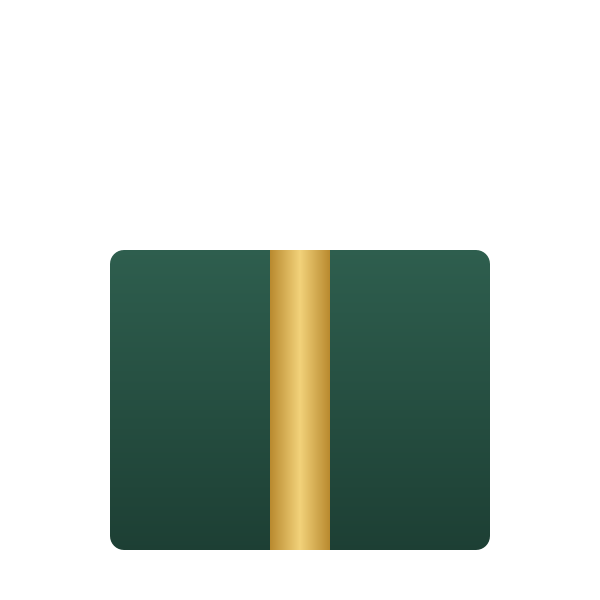
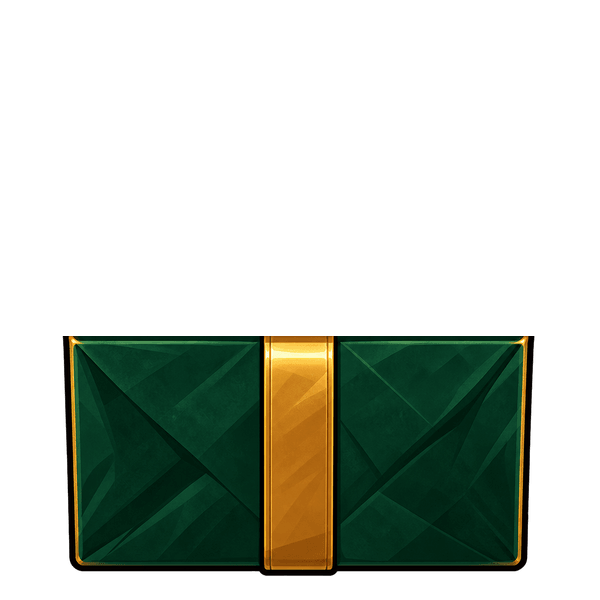
Kortpresenten: Viktors riktiga paket i stället för den tillfälliga bilden
Klippt vid skarven till lock och låda på samma sätt som skattkistan.

diff --git a/src/components/trophies/PresentBox.tsx b/src/components/trophies/PresentBox.tsx
@@ -1,17 +1,14 @@
 /**
- * Paketet i kortpresenten — samma uppbyggnad som skattkistan (TreasureChest): en bild klippt vid
- * skarven till ett lock och en låda (assets/present/), så att locket kan flyga av när paketet
- * öppnas. Båda bilderna har samma kvadratiska mått och ligger exakt ovanpå varandra;
- * PRESENT_SEAM_Y är skarven där de möts (där ljuset läcker ut), i bildens pixlar.
- *
- * TILLFÄLLIG BILD: ett enkelt ritat paket tills Viktors ChatGPT-bild finns. Den klipps då på
- * samma sätt som kistan, och PRESENT_SEAM_Y sätts efter den nya bilden.
+ * Paketet i kortpresenten — gjort i samma stil som skattkistan (ChatGPT) och klippt vid skarven
+ * till ett lock och en låda (assets/present/), så att locket kan flyga av när paketet öppnas.
+ * Båda bilderna har samma kvadratiska mått och ligger exakt ovanpå varandra; PRESENT_SEAM_Y är
+ * skarven där de möts (där ljuset läcker ut), i bildens pixlar.
  */
 import { Image } from "react-native";
 
 export const PRESENT_W = 600;
 export const PRESENT_H = 600;
-export const PRESENT_SEAM_Y = 252;
+export const PRESENT_SEAM_Y = 336;
 
 const LID = require("../../../assets/present/present-lid.png");
 const BASE = require("../../../assets/present/present-base.png");

diff --git a/src/components/trophies/CardPresent.tsx b/src/components/trophies/CardPresent.tsx
@@ -331,7 +331,7 @@ export function CardPresent({ card, onNavigate, onClose }: {
                 </Reanimated.View>
                 <Reanimated.View style={[{ width: PRESENT, height: presentH }, presentStyle]}>
                   <View style={StyleSheet.absoluteFill}><PresentBase size={PRESENT} /></View>
-                  <Reanimated.View style={[s.seam, { top: presentH / 2 + seamOffset - 4, left: PRESENT * 0.18, width: PRESENT * 0.64 }, seamStyle]} />
+                  <Reanimated.View style={[s.seam, { top: presentH / 2 + seamOffset - 4, left: PRESENT * 0.13, width: PRESENT * 0.74 }, seamStyle]} />
                   <Reanimated.View style={[StyleSheet.absoluteFill, lidStyle]}><PresentLid size={PRESENT} /></Reanimated.View>
                   <Reanimated.View style={[s.anchor, { top: presentH / 2 + seamOffset - PRESENT * 0.4, left: PRESENT * 0.1, width: PRESENT * 0.8, height: PRESENT * 0.8 }, hotStyle]}>
                     <RadialGlow size={PRESENT * 0.8} color="#FFF4D6" opacity={1} radiusRatio={0.6} />
